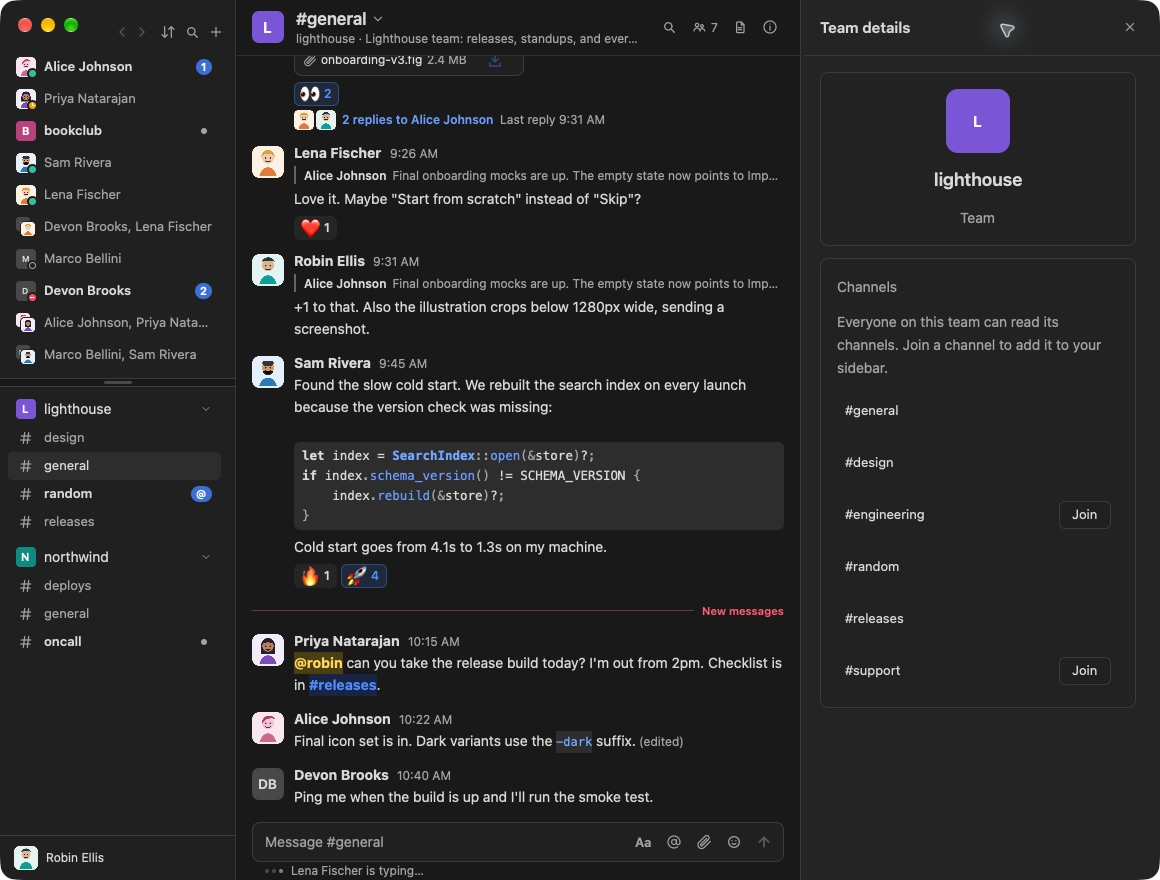
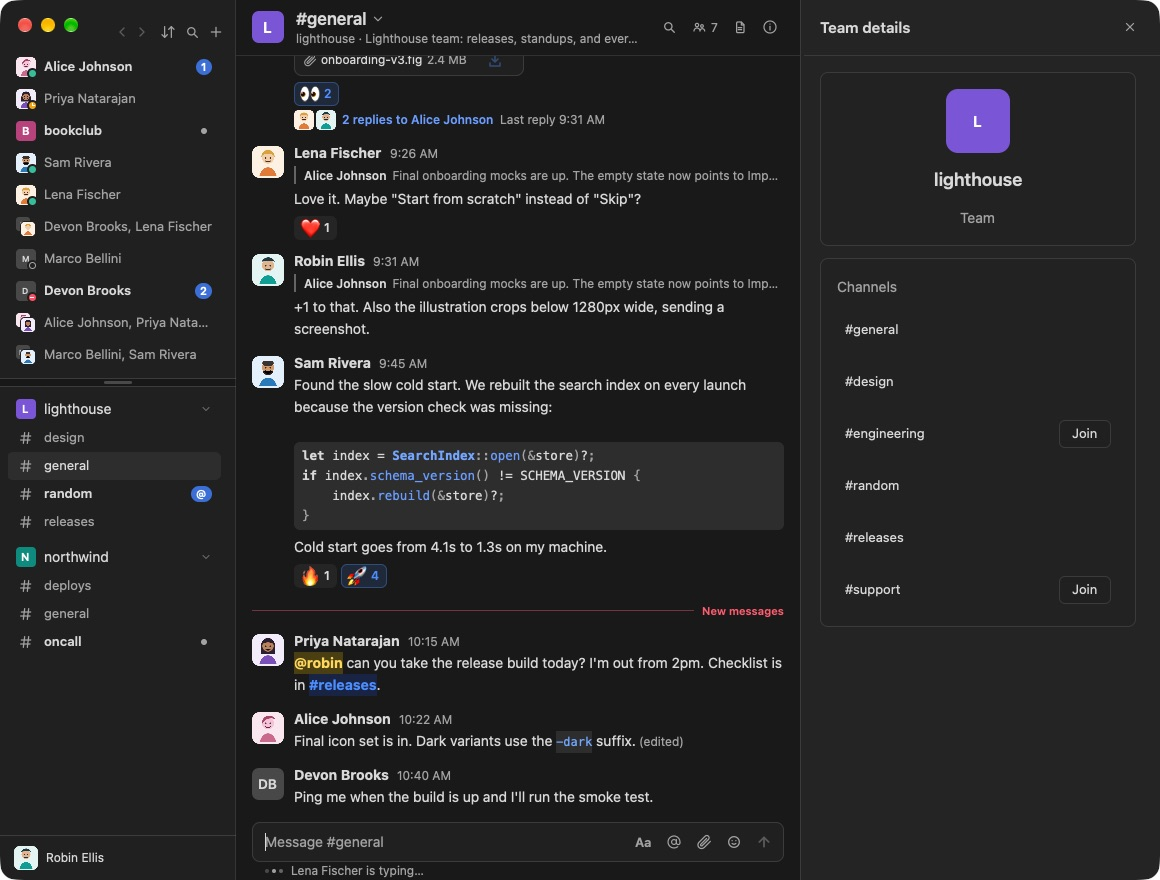
Shorten team channel and preview copy

diff --git a/src/views/right_pane/team.rs b/src/views/right_pane/team.rs
@@ -51,12 +51,6 @@ pub(super) fn render_team_panel(
                 .text_color(rgb(text_secondary()))
                 .child("Channels"),
         )
-        .child(
-            div()
-                .text_size(typography::body())
-                .text_color(rgb(text_secondary()))
-                .child("Everyone on this team can read its channels. Join a channel to add it to your sidebar."),
-        )
         .when(state.loading, |card| {
             card.child(div().text_size(typography::body()).child("Loading channels…"))
         })

diff --git a/src/views/conversation/mod.rs b/src/views/conversation/mod.rs
@@ -196,7 +196,7 @@ impl ConversationView {
                 div()
                     .text_size(typography::body())
                     .text_color(rgb(text_secondary()))
-                    .child("You can read this channel, but need to join to send messages."),
+                    .child("Join to send messages."),
             )
             .child(
                 div()
